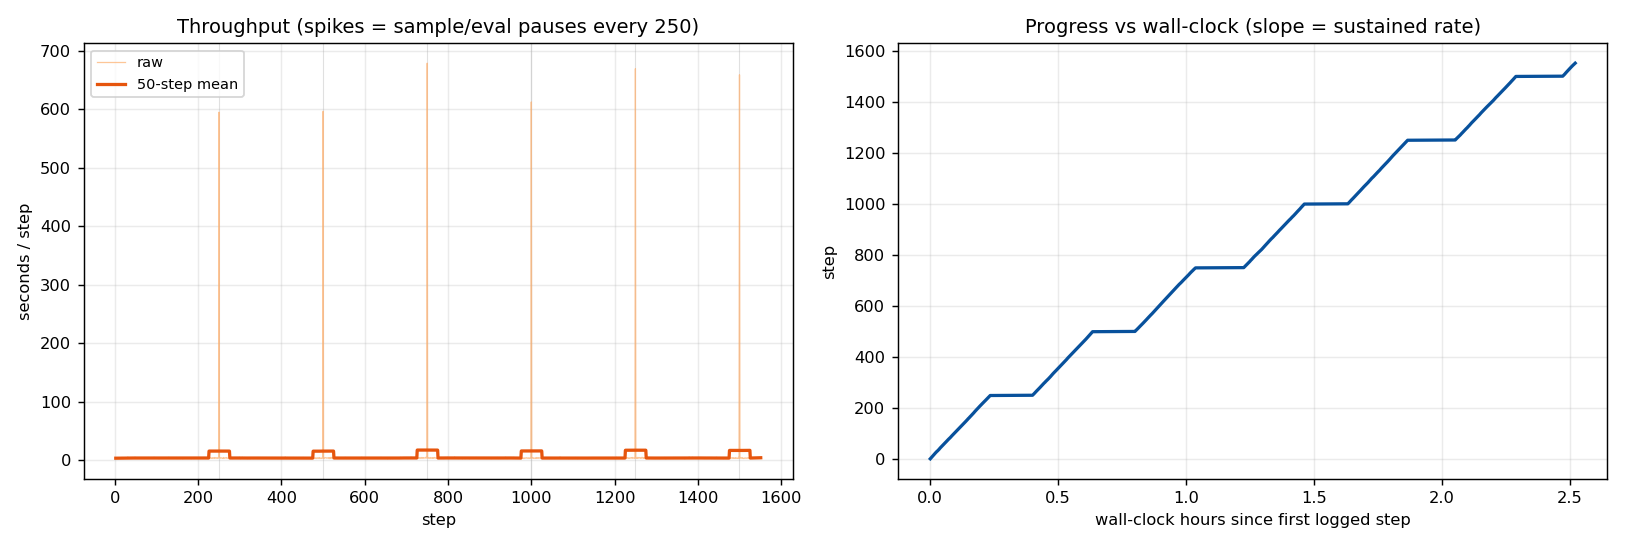
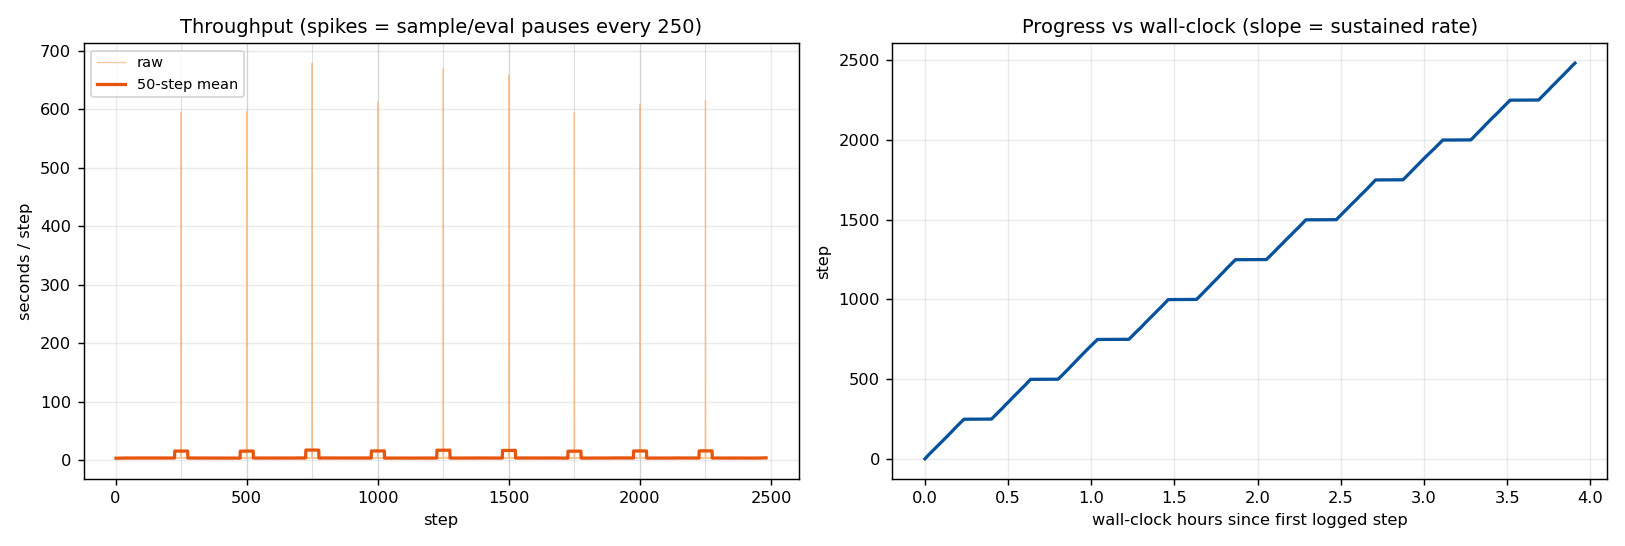
TRAINING_ANALYSIS: v2 live snapshot at step 2481/3000 (82.7%)
Full per-100 table through 2481; plots regenerated. Median 3.41 s/step, 16.9 GB
peak. loss/loss first-50 6.23 -> last-50 4.94, ar_ce 5.19 -> 3.77,
ar_kl 0.39 -> 1.42 (still rising, tracking slightly above v1; no plateau).

diff --git a/TRAINING_ANALYSIS/ANALYSIS.md b/TRAINING_ANALYSIS/ANALYSIS.md
@@ -1,15 +1,16 @@
 # Training analysis — `akbar_arabic_rock_lora` (v2, lyric-conditioned captions)
 
-> **IN PROGRESS — live snapshot at 2026-09-20 10:00 UTC, step ~1551 / 3000 (51.7%).**
-> The run is still training. Numbers below are current, not final; this file is
-> regenerated/updated as the run proceeds and finalized at step 3000. Charts are
-> regenerated from the live `loss_log.db` and `gpu_usage.csv` with:
+> **IN PROGRESS — live snapshot at 2026-09-20 11:24 UTC, step ~2481 / 3000 (82.7%).**
+> The run is still training (~30 min of steps + 3 sample events left). Numbers
+> below are current, not final; this file is regenerated/updated as the run
+> proceeds and finalized at step 3000. Charts are regenerated from the live
+> `loss_log.db` and `gpu_usage.csv` with:
 >
 > ```bash
 > python TRAINING_ANALYSIS/generate_plots.py
 > ```
 > (Note: the script's "recent rate"/ETA line can be distorted downward by a
-> sample pause inside its last-100 window — use the median below, not that line.)
+> sample pause inside its last-100 window — use the median below.)
 
 > This is **training loss only**. There is no held-out validation split, so
 > quality must be judged from the generated samples too — loss alone can't tell
@@ -33,12 +34,12 @@
 | Model | YuE2 3B int8 `convrot8`, flowmatch, batch 1 |
 | Dataset | 267 clips, 267 **lyric-bearing** captions, one combined LoRA across four maqams |
 | GPU | Colab **A100-SXM4-80GB** |
-| Steps done | **~1551 / 3000 (51.7%)** at snapshot |
-| Step time | **median 3.40 s/step** (p10 2.80 / p90 4.00, excluding sample pauses) |
-| Sample tax | 4 samples per event at `duration: 360`, ~**10.5 min/event** (595–679 s gaps); **28 samples** so far (steps 0/250/…/1500) |
-| Checkpoints | 6 so far: `_000000250` … `_000001500`, on disk and in GCS |
-| ETA | **~2.4 h** remaining (~82 min of steps + ~63 min of 6 sample events) |
-| GPU | peak **16.7 GB** (17134 MiB), mean 12.4 GB of 80 GB; ~93% util, ~286 W mean (incl. sample pauses) |
+| Steps done | **~2481 / 3000 (82.7%)** at snapshot |
+| Step time | **median 3.41 s/step** (p10 2.80 / p90 4.00, excluding sample pauses) |
+| Sample tax | 4 samples per event at `duration: 360`, ~**10.5 min/event** (594–679 s gaps); **40 samples** so far (steps 0/250/…/2250) |
+| Checkpoints | 9 so far: `_000000250` … `_000002250`, on disk and in GCS |
+| ETA | **~1 h** remaining (~30 min of steps + 3 sample events) |
+| GPU | peak **16.9 GB** (17282 MiB), mean 12.7 GB of 80 GB; ~94% util, ~294 W mean (incl. sample pauses) |
 | Health | no tracebacks; loss descending cleanly; VRAM flat |
 
 ## Charts
@@ -68,16 +69,26 @@
 | 1201–1300 | 5.261 | 4.108 | 1.230 | 4.354 |
 | 1301–1400 | 5.198 | 4.048 | 1.261 | 4.300 |
 | 1401–1500 | 5.198 | 4.054 | 1.251 | 4.304 |
-| 1501–1600 * | 5.203 | 4.041 | 1.281 | 4.298 |
+| 1501–1600 | 5.198 | 4.041 | 1.275 | 4.296 |
+| 1601–1700 | 5.122 | 3.962 | 1.313 | 4.225 |
+| 1701–1800 | 5.164 | 4.010 | 1.272 | 4.264 |
+| 1801–1900 | 5.110 | 3.961 | 1.323 | 4.225 |
+| 1901–2000 | 5.080 | 3.920 | 1.327 | 4.185 |
+| 2001–2100 | 5.086 | 3.906 | 1.353 | 4.177 |
+| 2101–2200 | 5.061 | 3.900 | 1.326 | 4.165 |
+| 2201–2300 | 5.019 | 3.847 | 1.400 | 4.127 |
+| 2301–2400 | 5.005 | 3.858 | 1.386 | 4.135 |
+| 2401–2500 * | 4.936 | 3.763 | 1.426 | 4.048 |
 
-\* partial window (to ~step 1551 at snapshot).
+\* partial window (to ~step 2481 at snapshot).
 
 Confirmed metric keys: `additional_model_loss`, `learning_rate`, `loss/ar_ce`,
 `loss/ar_kl`, `loss/loss`. There is **no** `nar_flow` key (see `DECISIONS.md`).
 
-First-50 vs last-50 (step ~1551): `loss/loss` 6.23 → 5.20 (**−1.03**),
-`loss/ar_ce` 5.19 → 4.04 (−1.15), `loss/ar_kl` 0.39 → 1.28 (**+0.90**),
-`additional_model_loss` 5.26 → 4.29 (−0.97).
+First-50 vs last-50 (step ~2481): `loss/loss` 6.23 → 4.94 (**−1.29**),
+`loss/ar_ce` 5.19 → 3.77 (−1.42), `loss/ar_kl` 0.39 → 1.42 (**+1.04**),
+`additional_model_loss` 5.26 → 4.05 (−1.21). Minimum `loss/loss` 4.43 at step
+2451 (single-step noise).
 
 ## v2 vs v1 at the same step (not apples-to-apples — read the caveat)
 
@@ -85,10 +96,10 @@ First-50 vs last-50 (step ~1551): `loss/loss` 6.23 → 5.20 (**−1.03**),
 |---|---|---|---|---|
 | v1 1–100 | 6.287 | 5.227 | 0.579 | 5.343 |
 | **v2 1–100** | **6.015** | **4.942** | 0.588 | **5.060** |
-| v1 1401–1500 | 5.536 | 4.409 | 1.194 | 4.648 |
-| **v2 1401–1500** | **5.198** | **4.054** | 1.251 | **4.304** |
-| v1 1501–1600 | 5.509 | 4.372 | 1.215 | 4.615 |
-| **v2 1501–1600** | **5.203** | **4.041** | 1.281 | **4.298** |
+| v1 1901–2000 | 5.409 | 4.252 | 1.280 | 4.508 |
+| **v2 1901–2000** | **5.080** | **3.920** | 1.327 | **4.185** |
+| v1 2401–2500 | 5.304 | 4.126 | 1.392 | 4.405 |
+| **v2 2401–2500** | **4.936** | **3.763** | 1.426 | **4.048** |
 
 **Caveat:** the audio targets are identical, but v2's prompts now contain the
 lyrics, so the AR has the actual words to predict from. A lower `loss/ar_ce` is
@@ -99,31 +110,34 @@ lyric signal is reaching the AR (the v1 failure was that it never did).
 ## Observations / flags
 
 1. **Healthy and still descending.** `loss/loss` fell steeply over the first
-   ~100 steps then declined steadily; at the last window it is ~5.20. No
-   tracebacks, no loss spikes beyond batch-1 noise, VRAM flat (never climbing).
-2. **The lyric signal is present and stable.** `loss/ar_ce` sits ~0.33 lower
-   than v1's at the same step (4.04 vs 4.37 by 1501–1600) — consistent with the
-   AR conditioning on real lyrics rather than style tags alone.
-3. **`loss/ar_kl` — the one to watch, and it has not plateaued.** It rose
-   0.39 → 1.28 (+0.90) and is now *above* v1's same-step (1.19–1.22). v1 briefly
-   paused near ~1.2 around steps 900–1300, then resumed to 1.50 by step 3000; v2
-   has shown no such pause and is ahead of that curve. **Bounded drift, not a
-   blow-up — but the trend is up.** If it keeps climbing past ~1.3–1.5 to the
-   end, that is the first lever for a v3 (fewer steps / lower LR / lower
-   `ar_kl_weight`), one variable at a time.
-4. **Throughput/VRAM as expected.** Median 3.40 s/step, ~16.7 GB peak; each
-   `duration: 360` sample event pauses training ~10.5 min (visible as spikes in
-   `04_throughput.png`) — the ETA in `generate_plots.py`'s summary line can read
-   too pessimistic if a sample pause falls in its last-100 window.
-5. **Sample quality is the real test.** 28 samples so far (steps 0/250/…/1500)
-   with held-out lyrics; the point of this run is that checkpoints can now
+   ~100 steps then declined steadily; last window ~4.94. No tracebacks, no loss
+   spikes beyond batch-1 noise, VRAM flat (never climbing).
+2. **The lyric signal is present and stable.** `loss/ar_ce` sits ~0.33–0.36
+   lower than v1's at the same step (e.g. 3.76 vs 4.13 by 2401–2500) —
+   consistent with the AR conditioning on real lyrics rather than style tags
+   alone.
+3. **`loss/ar_kl` — still rising, no plateau, and now tracking v1 closely.**
+   It rose 0.39 → 1.42 (+1.04); at 2401–2500 v2 is 1.43 vs v1's 1.39. v1 ended
+   its run at 1.48. With ~520 steps left, **v2 looks set to finish at ~1.5 or
+   above** — the same unbounded-drift signature v1 showed. Bounded, not a
+   blow-up, but if a v3 is run this is still the first lever (fewer steps /
+   lower LR / lower `ar_kl_weight`), one variable at a time.
+4. **Diminishing returns.** The per-100 drop has shrunk to ~0.07–0.08 by
+   2201–2500 (e.g. 5.019 → 5.005 → 4.936), the expected approach to a plateau
+   at constant LR on a small, repetitive dataset. Remaining signal is in the
+   samples.
+5. **Throughput/VRAM as expected.** Median 3.41 s/step, ~16.9 GB peak; each
+   `duration: 360` sample event pauses training ~10.5 min (spikes in
+   `04_throughput.png`).
+6. **Sample quality is the real test.** 40 samples so far (steps 0/250/…/2250)
+   with held-out lyrics — the point of this run is that checkpoints can now
    *show* pronunciation. Listen for lyric fidelity + arrangement coherence, not
    loss.
-6. **Ops note (resolved 2026-09-20):** `backup_to_gcp.py` uses append-only
+7. **Ops note (resolved 2026-09-20):** `backup_to_gcp.py` uses append-only
    `gsutil rsync`, so the 4 smoke-test step-0 samples had persisted in the run's
    GCS `output/samples/` after the local wipe (8 step-0 files instead of 4).
-   They were removed from GCS; the run prefix is now exactly 4 per step
-   (0/250/…/1500, 28 total). No effect on training.
+   They were removed from GCS; the run prefix is now exactly 4 per step. No
+   effect on training.
 
 ## Next steps
 
